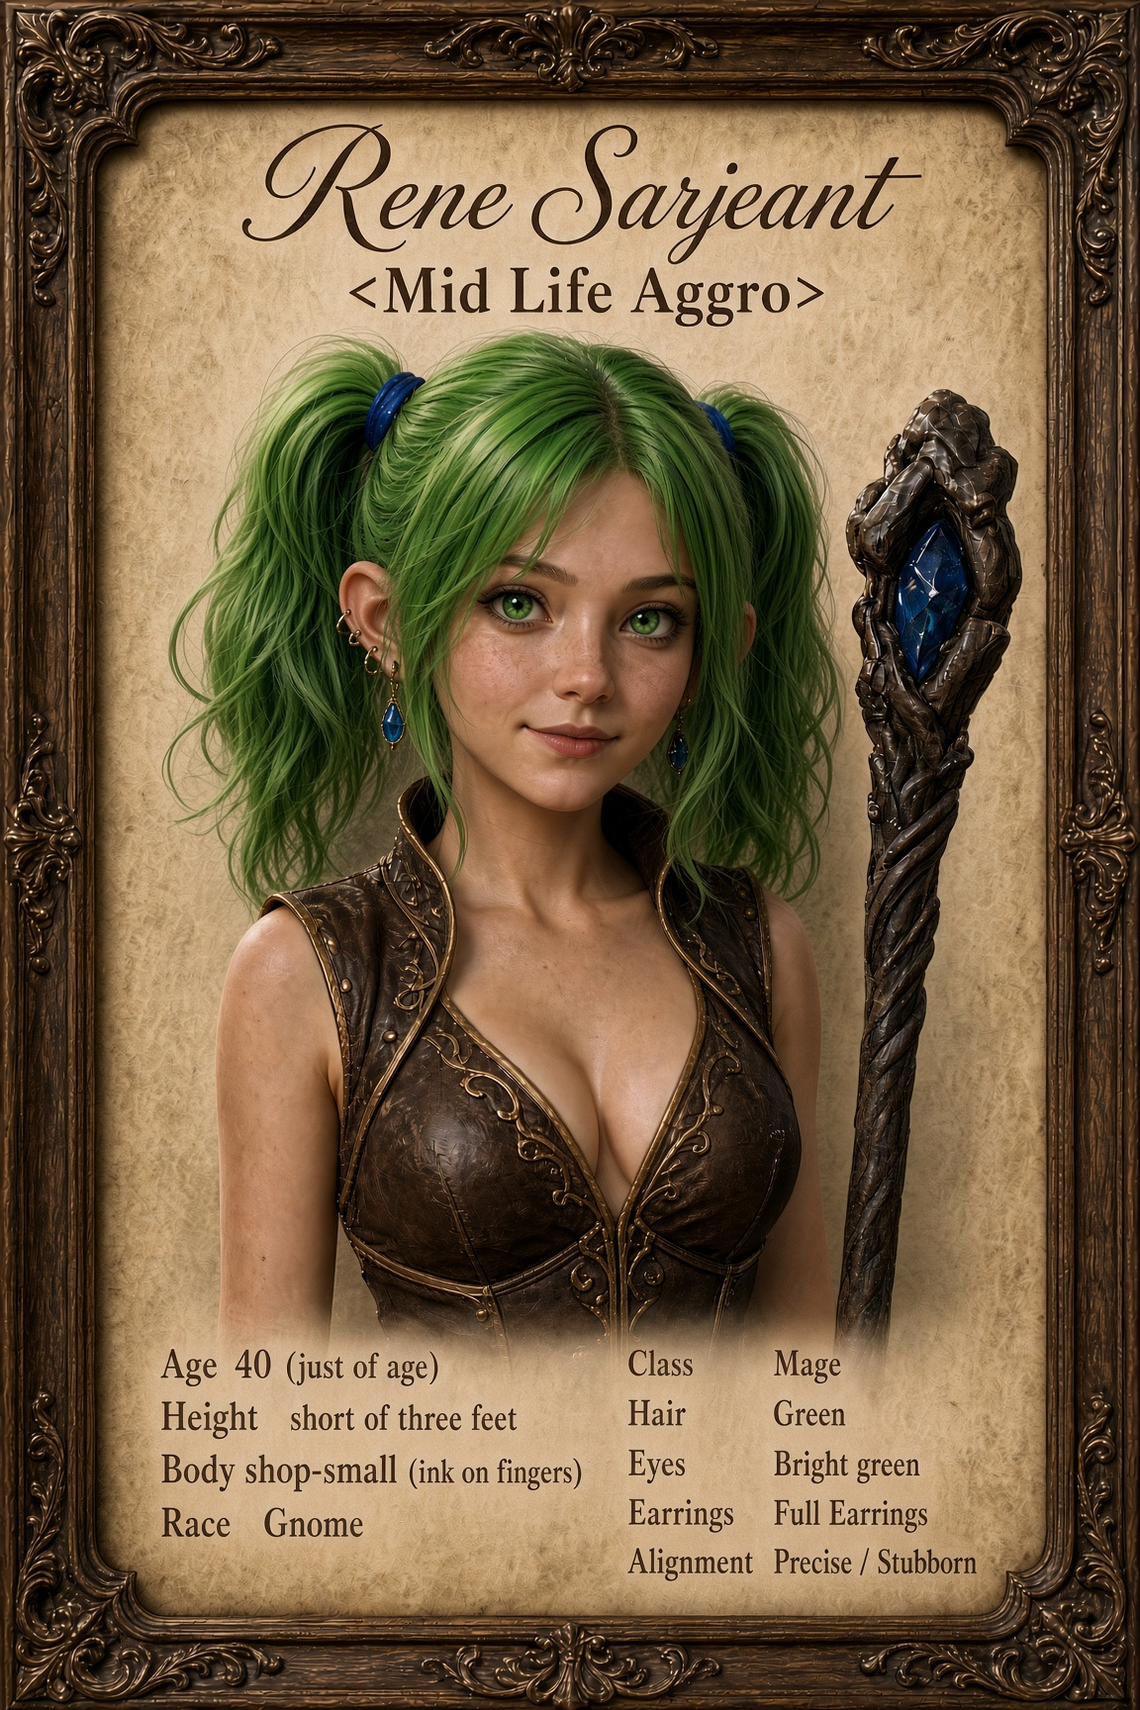
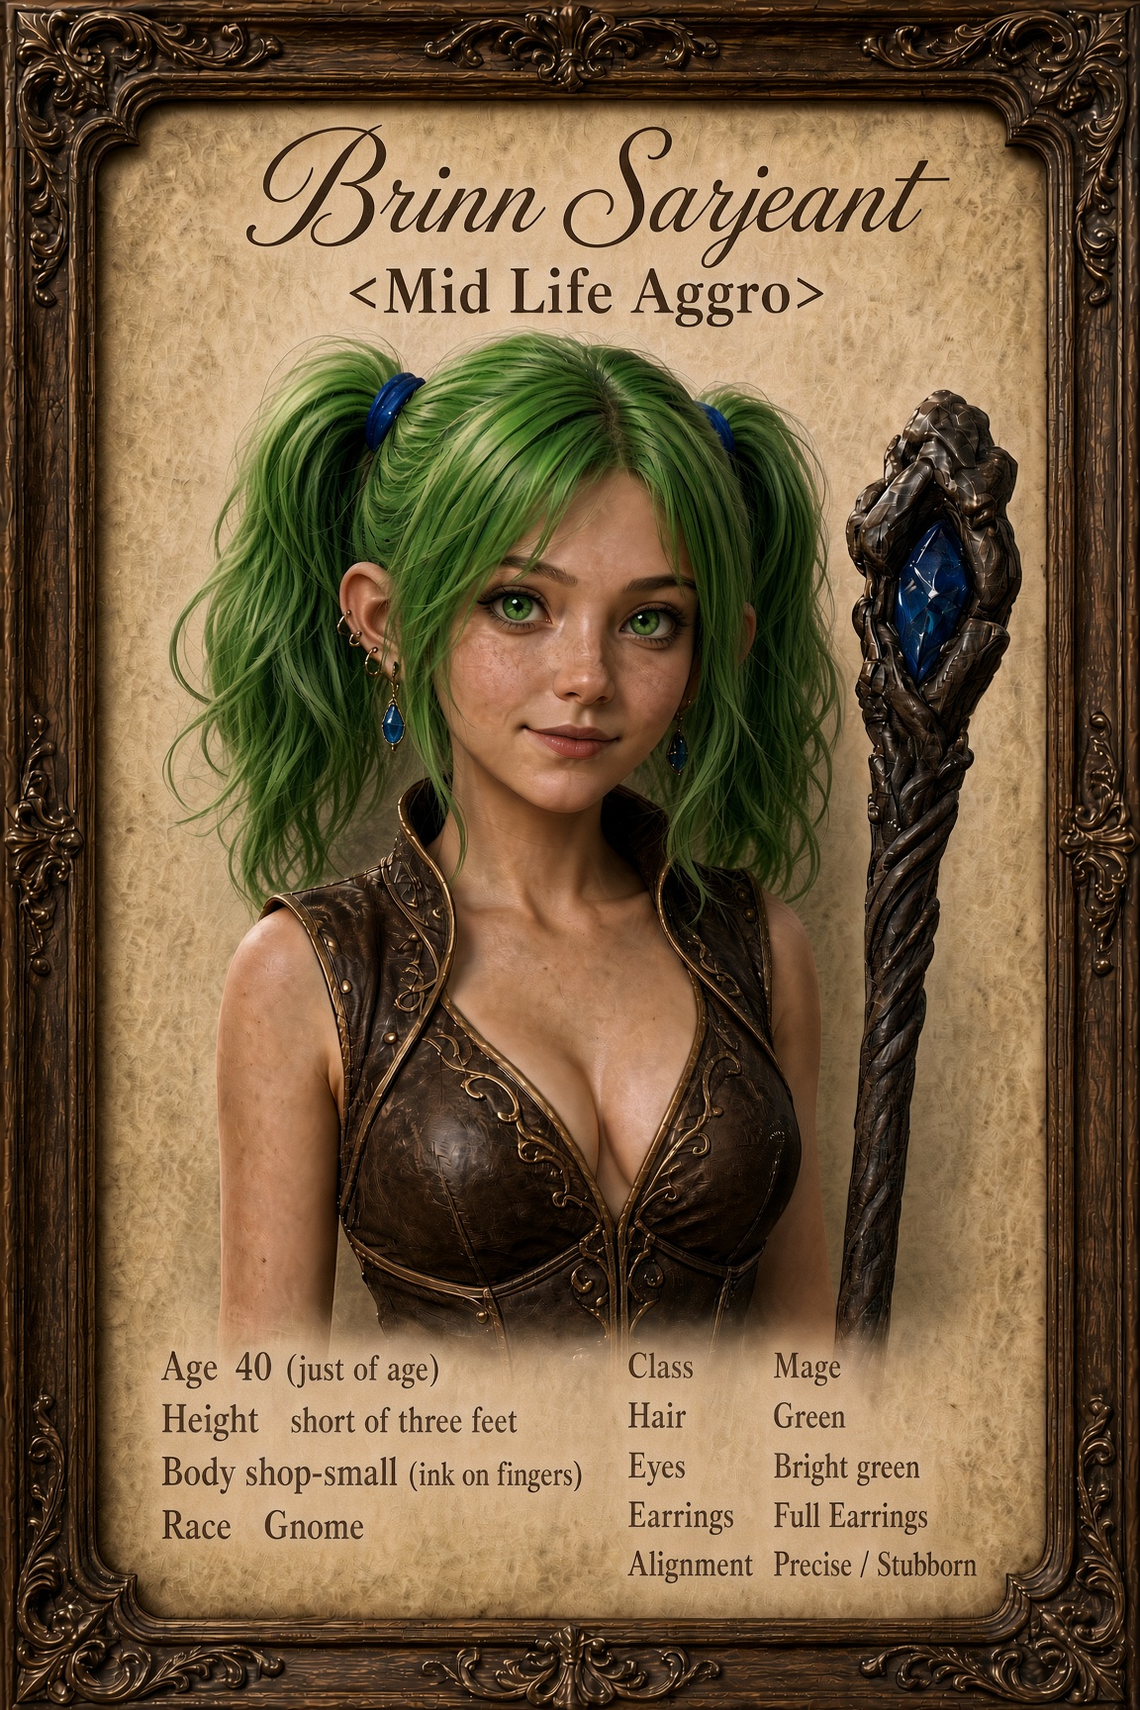
Rename gnome mage Rene Sarjeant to Brinn Sarjeant; update portrait, HTML, MD, and index

diff --git a/RP/Rene/index.html b/RP/Rene/index.html
@@ -4,7 +4,7 @@
 <meta charset="UTF-8">
 <meta name="viewport" content="width=device-width, initial-scale=1.0">
 <link rel="icon" type="image/png" href="../favicon.png">
-<title>Rene Sarjeant — Roleplay</title>
+<title>Brinn Sarjeant — Roleplay</title>
 <style>
   * { box-sizing: border-box; }
   html, body { margin: 0; padding: 0; min-height: 100%; }
@@ -83,12 +83,12 @@
 <body>
 <div class="overlay">
   <div class="container">
-    <h1>Rene Sarjeant</h1>
+    <h1>Brinn Sarjeant</h1>
     <div class="subtitle">Gnome mage · Year 25 · Age 40 (just of age)</div>
-    <p class="intro">Born Nimbel Cogspool in the mid-wards of Gnomeregan. A human will read her as a teenager. A dwarf or an older gnome will not. Answers to Rene. Nim only to someone from the old shop.</p>
+    <p class="intro">Born Nimbel Cogspool in the mid-wards of Gnomeregan. A human will read her as a teenager. A dwarf or an older gnome will not. Answers to Brinn. Nim only to someone from the old shop.</p>
 
     <div style="text-align: center; margin: 1.5rem 0 2rem 0;">
-      <img src="./rene-framed-portrait.jpg" alt="Rene Sarjeant — Framed Portrait" style="max-width: 100%; height: auto; border-radius: 8px; box-shadow: 0 4px 20px rgba(0,0,0,0.5); border: 1px solid rgba(140, 180, 220, 0.4);">
+      <img src="./rene-framed-portrait.jpg" alt="Brinn Sarjeant — Framed Portrait" style="max-width: 100%; height: auto; border-radius: 8px; box-shadow: 0 4px 20px rgba(0,0,0,0.5); border: 1px solid rgba(140, 180, 220, 0.4);">
     </div>
 
     <h2>The Mid-Wards</h2>
@@ -96,7 +96,7 @@
     <p>The troggs did not come to the mid-wards first. The news did. Hoods, burn-wash, and a shut gate below. Then the order to vent the tanks. Nimbel was at the bench when the air changed. Her master took the bird out of her hands, wrapped the geared wing in a rag, and put it back on the stool as if they were coming back after supper. He sent her up with a junior cutter who had come for a pin. On the service stair the cutter got her as far as the landing and went down again for the rest of the shop. Nimbel waited. The landing filled with people who had not been on it a minute before. Someone, she never saw the face, lifted her under the arms and carried her the rest of the way because her legs would not take the crush.</p>
 
     <h2>The Gate</h2>
-    <p>At the gate the snow was full of blankets and counts and dwarves shouting numbers. A Stormwind soldier coming down the road with a supply sledge saw a gnome child with no one to answer for her. He took the blanket off his own shoulders, wrapped her in it, and passed her to the Ironforge tally. He did not stay. There was still a line behind her. In the hem, stitched in human thread, was a name: Rene Sarjeant.</p>
+    <p>At the gate the snow was full of blankets and counts and dwarves shouting numbers. A Stormwind soldier coming down the road with a supply sledge saw a gnome child with no one to answer for her. He took the blanket off his own shoulders, wrapped her in it, and passed her to the Ironforge tally. He did not stay. There was still a line behind her. In the hem, stitched in human thread, was a name: Brinn Sarjeant.</p>
     <p>The clerk asked what to write. Cogspool would not come out of her mouth. The house was on the wrong side of the door. She put her finger on the hem. He wrote what was stitched there. She has answered to it since. It is not an adoption. The soldier did not keep her. He spent a blanket and a minute, and went back to the sledge. She kept the name because it was the one that got her past the quartermaster, and because Cogspool is a house she cannot yet say came up. She will wear it again when she knows. The blanket is folded under the cot in Tinker Town. The hem is still readable.</p>
 
     <h2>Exile Crafts</h2>
@@ -105,16 +105,16 @@
 
     <h2>The Fire and the Line</h2>
     <p>The mage craft came by the same road. Bink, in Ironforge, started her, because a homeless apprentice could still be taught to hold a fire in her hand. She is not a scholar. She reads what she is given. She is a tinker’s hand that learned to throw fire because the toolbox is under a poisoned ward. When a spell sits cleanly she looks, for a moment, like someone who has just heard a gear mesh.</p>
-    <p>Fishing is the thing that does not hurt. Iceflow Lake is a walk from the city, out by Brewnall, and Paxton Ganter is on the ice there with a pole and more patience than any master she has had. She found him because she would not stop asking what he was doing. He put a second pole in her hands and did not ask her to spell anything. The line does nothing clever. It waits, even in a Dun Morogh wind. She loves it more than she meant to. She will not hear it called a waste of a gnome. Paxton learned the name Rene Sarjeant. He still has to be told twice that Cogspool is not what to call her. He says she sets the hook too early. She goes back the next day anyway. The lake does not care that she is young, and it does not care what is left on a stool under the mountain.</p>
+    <p>Fishing is the thing that does not hurt. Iceflow Lake is a walk from the city, out by Brewnall, and Paxton Ganter is on the ice there with a pole and more patience than any master she has had. She found him because she would not stop asking what he was doing. He put a second pole in her hands and did not ask her to spell anything. The line does nothing clever. It waits, even in a Dun Morogh wind. She loves it more than she meant to. She will not hear it called a waste of a gnome. Paxton learned the name Brinn Sarjeant. He still has to be told twice that Cogspool is not what to call her. He says she sets the hook too early. She goes back the next day anyway. The lake does not care that she is young, and it does not care what is left on a stool under the mountain.</p>
     <p>She keeps the tailor’s board and the enchanting rod under the cot, and the pole where she can see it. Mekkatorque’s plan to go back is her plan too, though no one has asked a barely-of-age mage for it. She wants the bench. She wants the wing. She has not said that part out loud. If she finds the bird, she will finish it before she decides what to do about the name.</p>
-    <p>Currently: A stool too tall for her in Tinker Town. Answers to Rene Sarjeant. The blanket with the hem is folded under the cot. Paxton Ganter says she still sets the hook too early.</p>
+    <p>Currently: A stool too tall for her in Tinker Town. Answers to Brinn Sarjeant. The blanket with the hem is folded under the cot. Paxton Ganter says she still sets the hook too early.</p>
 
     <h2>Character Sheet</h2>
     <table>
-      <tr><th>Name</th><td>Rene Sarjeant</td></tr>
+      <tr><th>Name</th><td>Brinn Sarjeant</td></tr>
       <tr><th>Birth Name</th><td>Nimbel Cogspool</td></tr>
       <tr><th>Title</th><td>None</td></tr>
-      <tr><th>Full Title</th><td>Rene Sarjeant</td></tr>
+      <tr><th>Full Title</th><td>Brinn Sarjeant</td></tr>
       <tr><th>Race</th><td>Gnome</td></tr>
       <tr><th>Gender</th><td>Female</td></tr>
       <tr><th>Class</th><td>Mage</td></tr>
@@ -132,8 +132,8 @@
 
     <h2>TRP3 (Copyable)</h2>
     <div class="trp">
-      <p><strong>Currently:</strong> A stool too tall for her in Tinker Town. Answers to Rene Sarjeant. The blanket with the hem is folded under the cot. Paxton Ganter says she still sets the hook too early.</p>
-      <p><strong>Glance 1 — Borrowed name:</strong> Nimbel Cogspool on the old census. Rene Sarjeant off a soldier’s blanket. Not an adoption.</p>
+      <p><strong>Currently:</strong> A stool too tall for her in Tinker Town. Answers to Brinn Sarjeant. The blanket with the hem is folded under the cot. Paxton Ganter says she still sets the hook too early.</p>
+      <p><strong>Glance 1 — Borrowed name:</strong> Nimbel Cogspool on the old census. Brinn Sarjeant off a soldier’s blanket. Not an adoption.</p>
       <p><strong>Glance 2 — The hem:</strong> Folded under the cot in Tinker Town. Still readable.</p>
       <p><strong>Glance 3 — Tailor and enchanter:</strong> The crafts that travel. She is good at both. She resents them a little.</p>
       <p><strong>Glance 4 — The pole:</strong> Newer than the rest of the kit. Paxton Ganter taught her on Iceflow Lake. She loves the waiting.</p>
@@ -145,25 +145,25 @@
       <li><strong>First name:</strong> Rene</li>
       <li><strong>Last name:</strong> Sarjeant</li>
       <li><strong>Title:</strong> None</li>
-      <li><strong>Full title:</strong> Rene Sarjeant</li>
+      <li><strong>Full title:</strong> Brinn Sarjeant</li>
       <li><strong>Race:</strong> Gnome</li>
       <li><strong>Class:</strong> Mage</li>
       <li><strong>Age:</strong> 40</li>
       <li><strong>Height:</strong> Short of three feet. She refuses the shorter stool.</li>
       <li><strong>Body:</strong> Shop-small. Ink on the fingers.</li>
       <li><strong>Eyes:</strong> Bright. She watches hands more than faces.</li>
-      <li><strong>Currently:</strong> A stool too tall for her in Tinker Town. Answers to Rene Sarjeant. The blanket with the hem is folded under the cot. Paxton Ganter says she still sets the hook too early.</li>
+      <li><strong>Currently:</strong> A stool too tall for her in Tinker Town. Answers to Brinn Sarjeant. The blanket with the hem is folded under the cot. Paxton Ganter says she still sets the hook too early.</li>
     </ul>
 
     <h2>About (paste into TRP3)</h2>
     <div class="trp">
-      <p>Rene Sarjeant, born Nimbel Cogspool, gnome mage, just of age. The Cogspools cut small parts in the mid-wards. Her master had set her a clockwork bird. One wing was geared. The other was a pencil mark on tin. She was not old enough for a live coil. She was old enough to mind.</p>
+      <p>Brinn Sarjeant, born Nimbel Cogspool, gnome mage, just of age. The Cogspools cut small parts in the mid-wards. Her master had set her a clockwork bird. One wing was geared. The other was a pencil mark on tin. She was not old enough for a live coil. She was old enough to mind.</p>
       <p>When the tanks were vented he sent her up with a junior cutter. The cutter got her as far as the landing and went back down. A stranger carried her the rest of the way. At the gate a Stormwind soldier wrapped her in his own blanket, passed her to the Ironforge tally, and went back to his sledge. The hem was stitched with his name. Cogspool would not come out of her mouth. She pointed at the stitch. It is not an adoption. She will wear Cogspool again when she knows the house came up.</p>
       <p>Ironforge will let a refugee sweep a forge. It will not give her the stool back. She cuts cloth and lays enchantments because those can be done on a cot. Bink started her as a mage. She is a tinker’s hand that learned to throw fire because the toolbox is under a poisoned ward. She fishes because Paxton Ganter taught her on Iceflow Lake, and the line does not explode. She still wants the bench. She has not put Cogspool back on.</p>
     </div>
 
     <div class="footer">
-      Year 25 · Rene Sarjeant · The bird is unfinished. The hem is still readable.
+      Year 25 · Brinn Sarjeant · The bird is unfinished. The hem is still readable.
     </div>
   </div>
 </div>

diff --git a/index.html b/index.html
@@ -134,7 +134,7 @@
     </div>
 
     <div class="card">
-      <h2>Rene Sarjeant</h2>
+      <h2>Brinn Sarjeant</h2>
       <p>Gnome mage</p>
       <p>Born Nimbel Cogspool · Age 40 in year 25</p>
       <a href="RP/Rene/">View Sheet</a>

diff --git a/Brinn Sarjeant.md b/Brinn Sarjeant.md
@@ -1,8 +1,8 @@
-# Rene Sarjeant
+# Brinn Sarjeant
 
 Gnome mage. Age 40 in year 25 — just of age by the old gnome count. Born Nimbel Cogspool in the mid-wards of Gnomeregan. A human will read her as a teenager. A dwarf or an older gnome will not.
 
-Answers to Rene. Nim only to someone from the old shop. Does not answer to Cogspool unless the speaker is from that shop.
+Answers to Brinn. Nim only to someone from the old shop. Does not answer to Cogspool unless the speaker is from that shop.
 
 ## The Mid-Wards
 
@@ -12,7 +12,7 @@ The troggs did not come to the mid-wards first. The news did. Hoods, burn-wash, 
 
 ## The Gate
 
-At the gate the snow was full of blankets and counts and dwarves shouting numbers. A Stormwind soldier coming down the road with a supply sledge saw a gnome child with no one to answer for her. He took the blanket off his own shoulders, wrapped her in it, and passed her to the Ironforge tally. He did not stay. There was still a line behind her. In the hem, stitched in human thread, was a name: Rene Sarjeant.
+At the gate the snow was full of blankets and counts and dwarves shouting numbers. A Stormwind soldier coming down the road with a supply sledge saw a gnome child with no one to answer for her. He took the blanket off his own shoulders, wrapped her in it, and passed her to the Ironforge tally. He did not stay. There was still a line behind her. In the hem, stitched in human thread, was a name: Brinn Sarjeant.
 
 The clerk asked what to write. Cogspool would not come out of her mouth. The house was on the wrong side of the door. She put her finger on the hem. He wrote what was stitched there. She has answered to it since. It is not an adoption. The soldier did not keep her. He spent a blanket and a minute, and went back to the sledge. She kept the name because it was the one that got her past the quartermaster, and because Cogspool is a house she cannot yet say came up. She will wear it again when she knows. The blanket is folded under the cot in Tinker Town. The hem is still readable.
 
@@ -26,21 +26,21 @@ Ironforge will let a refugee sweep a forge. It will not give a Cogspool her mast
 
 The mage craft came by the same road. Bink, in Ironforge, started her, because a homeless apprentice could still be taught to hold a fire in her hand. She is not a scholar. She reads what she is given. She is a tinker’s hand that learned to throw fire because the toolbox is under a poisoned ward. When a spell sits cleanly she looks, for a moment, like someone who has just heard a gear mesh.
 
-Fishing is the thing that does not hurt. Iceflow Lake is a walk from the city, out by Brewnall, and Paxton Ganter is on the ice there with a pole and more patience than any master she has had. She found him because she would not stop asking what he was doing. He put a second pole in her hands and did not ask her to spell anything. The line does nothing clever. It waits, even in a Dun Morogh wind. She loves it more than she meant to. She will not hear it called a waste of a gnome. Paxton learned the name Rene Sarjeant. He still has to be told twice that Cogspool is not what to call her. He says she sets the hook too early. She goes back the next day anyway. The lake does not care that she is young, and it does not care what is left on a stool under the mountain.
+Fishing is the thing that does not hurt. Iceflow Lake is a walk from the city, out by Brewnall, and Paxton Ganter is on the ice there with a pole and more patience than any master she has had. She found him because she would not stop asking what he was doing. He put a second pole in her hands and did not ask her to spell anything. The line does nothing clever. It waits, even in a Dun Morogh wind. She loves it more than she meant to. She will not hear it called a waste of a gnome. Paxton learned the name Brinn Sarjeant. He still has to be told twice that Cogspool is not what to call her. He says she sets the hook too early. She goes back the next day anyway. The lake does not care that she is young, and it does not care what is left on a stool under the mountain.
 
 She keeps the tailor’s board and the enchanting rod under the cot, and the pole where she can see it. Mekkatorque’s plan to go back is her plan too, though no one has asked a barely-of-age mage for it. She wants the bench. She wants the wing. She has not said that part out loud. If she finds the bird, she will finish it before she decides what to do about the name.
 
-Currently: A stool too tall for her in Tinker Town. Answers to Rene Sarjeant. The blanket with the hem is folded under the cot. Paxton Ganter says she still sets the hook too early.
+Currently: A stool too tall for her in Tinker Town. Answers to Brinn Sarjeant. The blanket with the hem is folded under the cot. Paxton Ganter says she still sets the hook too early.
 
 ## Character Sheet
 
 Year 25. Age 40 (just of age by the old gnome count). Gnomeregan still lost. Cot in Tinker Town.
 
-| **Name** | Rene Sarjeant |
+| **Name** | Brinn Sarjeant |
 | --- | --- |
 | **Birth Name** | Nimbel Cogspool |
 | **Title** | None |
-| **Full Title** | Rene Sarjeant |
+| **Full Title** | Brinn Sarjeant |
 | **Race** | Gnome |
 | **Gender** | Female |
 | **Class** | Mage |
@@ -69,7 +69,7 @@ Year 25. Age 40 (just of age by the old gnome count). Gnomeregan still lost. Cot
 | --- | --- |
 | **Age at the fall** | 35 or 36. Still a shop-child. Trusted with a bird, not a live coil. |
 | **Master** | Took the bird, wrapped the geared wing, put it back on the stool. Sent her up. |
-| **The blanket** | Stormwind soldier’s. Hem stitched “Rene Sarjeant” in human thread. Under the cot. Still readable. Not an adoption. |
+| **The blanket** | Stormwind soldier’s. Hem stitched “Brinn Sarjeant” in human thread. Under the cot. Still readable. Not an adoption. |
 | **Name** | Took the stitch because Cogspool would not come out of her mouth. Will wear Cogspool again when she knows the house came up. |
 | **The bird** | Clockwork. One wing geared. Still on the stool below. She has not said she wants it back. |
 | **Mage** | Started by Bink in Ironforge. Tinker’s hand that learned to throw fire. |
@@ -84,9 +84,9 @@ As of Year 25 (and the early Azeroth setting of WoW Forever, post-Warcraft III a
 
 ## TRP3
 
-**Currently**: A stool too tall for her in Tinker Town. Answers to Rene Sarjeant. The blanket with the hem is folded under the cot. Paxton Ganter says she still sets the hook too early.
+**Currently**: A stool too tall for her in Tinker Town. Answers to Brinn Sarjeant. The blanket with the hem is folded under the cot. Paxton Ganter says she still sets the hook too early.
 
-**Glance 1 — Borrowed name**: Nimbel Cogspool on the old census. Rene Sarjeant off a soldier’s blanket. Not an adoption.
+**Glance 1 — Borrowed name**: Nimbel Cogspool on the old census. Brinn Sarjeant off a soldier’s blanket. Not an adoption.
 
 **Glance 2 — The hem**: Folded under the cot in Tinker Town. Still readable.
 
@@ -98,21 +98,21 @@ As of Year 25 (and the early Azeroth setting of WoW Forever, post-Warcraft III a
 
 ### Characteristics (paste into TRP3)
 
-- **First name**: Rene
+- **First name**: Brinn
 - **Last name**: Sarjeant
 - **Title**: None
-- **Full title**: Rene Sarjeant
+- **Full title**: Brinn Sarjeant
 - **Race**: Gnome
 - **Class**: Mage
 - **Age**: 40
 - **Height**: Short of three feet. She refuses the shorter stool.
 - **Body**: Shop-small. Ink on the fingers.
 - **Eyes**: Bright. She watches hands more than faces.
-- **Currently**: A stool too tall for her in Tinker Town. Answers to Rene Sarjeant. The blanket with the hem is folded under the cot. Paxton Ganter says she still sets the hook too early.
+- **Currently**: A stool too tall for her in Tinker Town. Answers to Brinn Sarjeant. The blanket with the hem is folded under the cot. Paxton Ganter says she still sets the hook too early.
 
 ### About (paste into TRP3)
 
-Rene Sarjeant, born Nimbel Cogspool, gnome mage, just of age. The Cogspools cut small parts in the mid-wards. Her master had set her a clockwork bird. One wing was geared. The other was a pencil mark on tin. She was not old enough for a live coil. She was old enough to mind.
+Brinn Sarjeant, born Nimbel Cogspool, gnome mage, just of age. The Cogspools cut small parts in the mid-wards. Her master had set her a clockwork bird. One wing was geared. The other was a pencil mark on tin. She was not old enough for a live coil. She was old enough to mind.
 
 When the tanks were vented he sent her up with a junior cutter. The cutter got her as far as the landing and went back down. A stranger carried her the rest of the way. At the gate a Stormwind soldier wrapped her in his own blanket, passed her to the Ironforge tally, and went back to his sledge. The hem was stitched with his name. Cogspool would not come out of her mouth. She pointed at the stitch. It is not an adoption. She will wear Cogspool again when she knows the house came up.
 
@@ -129,7 +129,7 @@ Ironforge will let a refugee sweep a forge. It will not give her the stool back.
 
 ## OOC
 
-Gnome mage, 40, just of age by the old count. A human will read her as a teenager. Engineering apprentice, not a finished tinker. Tailoring and enchanting are the exile crafts. Fishing is the one she loves. Year 25 / WoW Forever early Azeroth: Gnomeregan still lost, cot in Tinker Town. The bird and the house name are not settled. Answers to Rene. Full sheet and narrative live at this file in the Roleplay repo.
+Gnome mage, 40, just of age by the old count. A human will read her as a teenager. Engineering apprentice, not a finished tinker. Tailoring and enchanting are the exile crafts. Fishing is the one she loves. Year 25 / WoW Forever early Azeroth: Gnomeregan still lost, cot in Tinker Town. The bird and the house name are not settled. Answers to Brinn. Full sheet and narrative live at this file in the Roleplay repo.
 
 ## Appearance (In-Game)
 

diff --git a/README.md b/README.md
@@ -3,7 +3,7 @@
 Character sheets and TRP3 references for Year 25 / WoW Forever era.
 
 - [Sister René Sarjeant](RP/Brinn/) — Human priest of the Holy Light. Age 20 in year 25. (Styled page with background art)
-- [Rene Sarjeant](RP/Rene/) — Gnome mage. Born Nimbel Cogspool. Age 40 in year 25. Answers to Rene. (Styled page with background art)
+- [Brinn Sarjeant](RP/Rene/) — Gnome mage. Born Nimbel Cogspool. Age 40 in year 25. Answers to Brinn. (Styled page with background art)
 - [Aelindra Sarjeant](RP/Aelindra/) — Skyborne High Order Hunter. True name Aelindra Ser'jaen'thal. Human-given surname Sarjeant. (Styled page with background art)
 - [Star Teva](RP/StarTeva/) — Human warrior. Age 28 in year 25. From the mill in the Hillsbrad Foothills. (Styled page)
 - [Roric Stonehearth](RP/Roric/) — Ironforge dwarf paladin of the Silver Hand. Age 187 in year 25. Former innkeeper. (Styled page)
